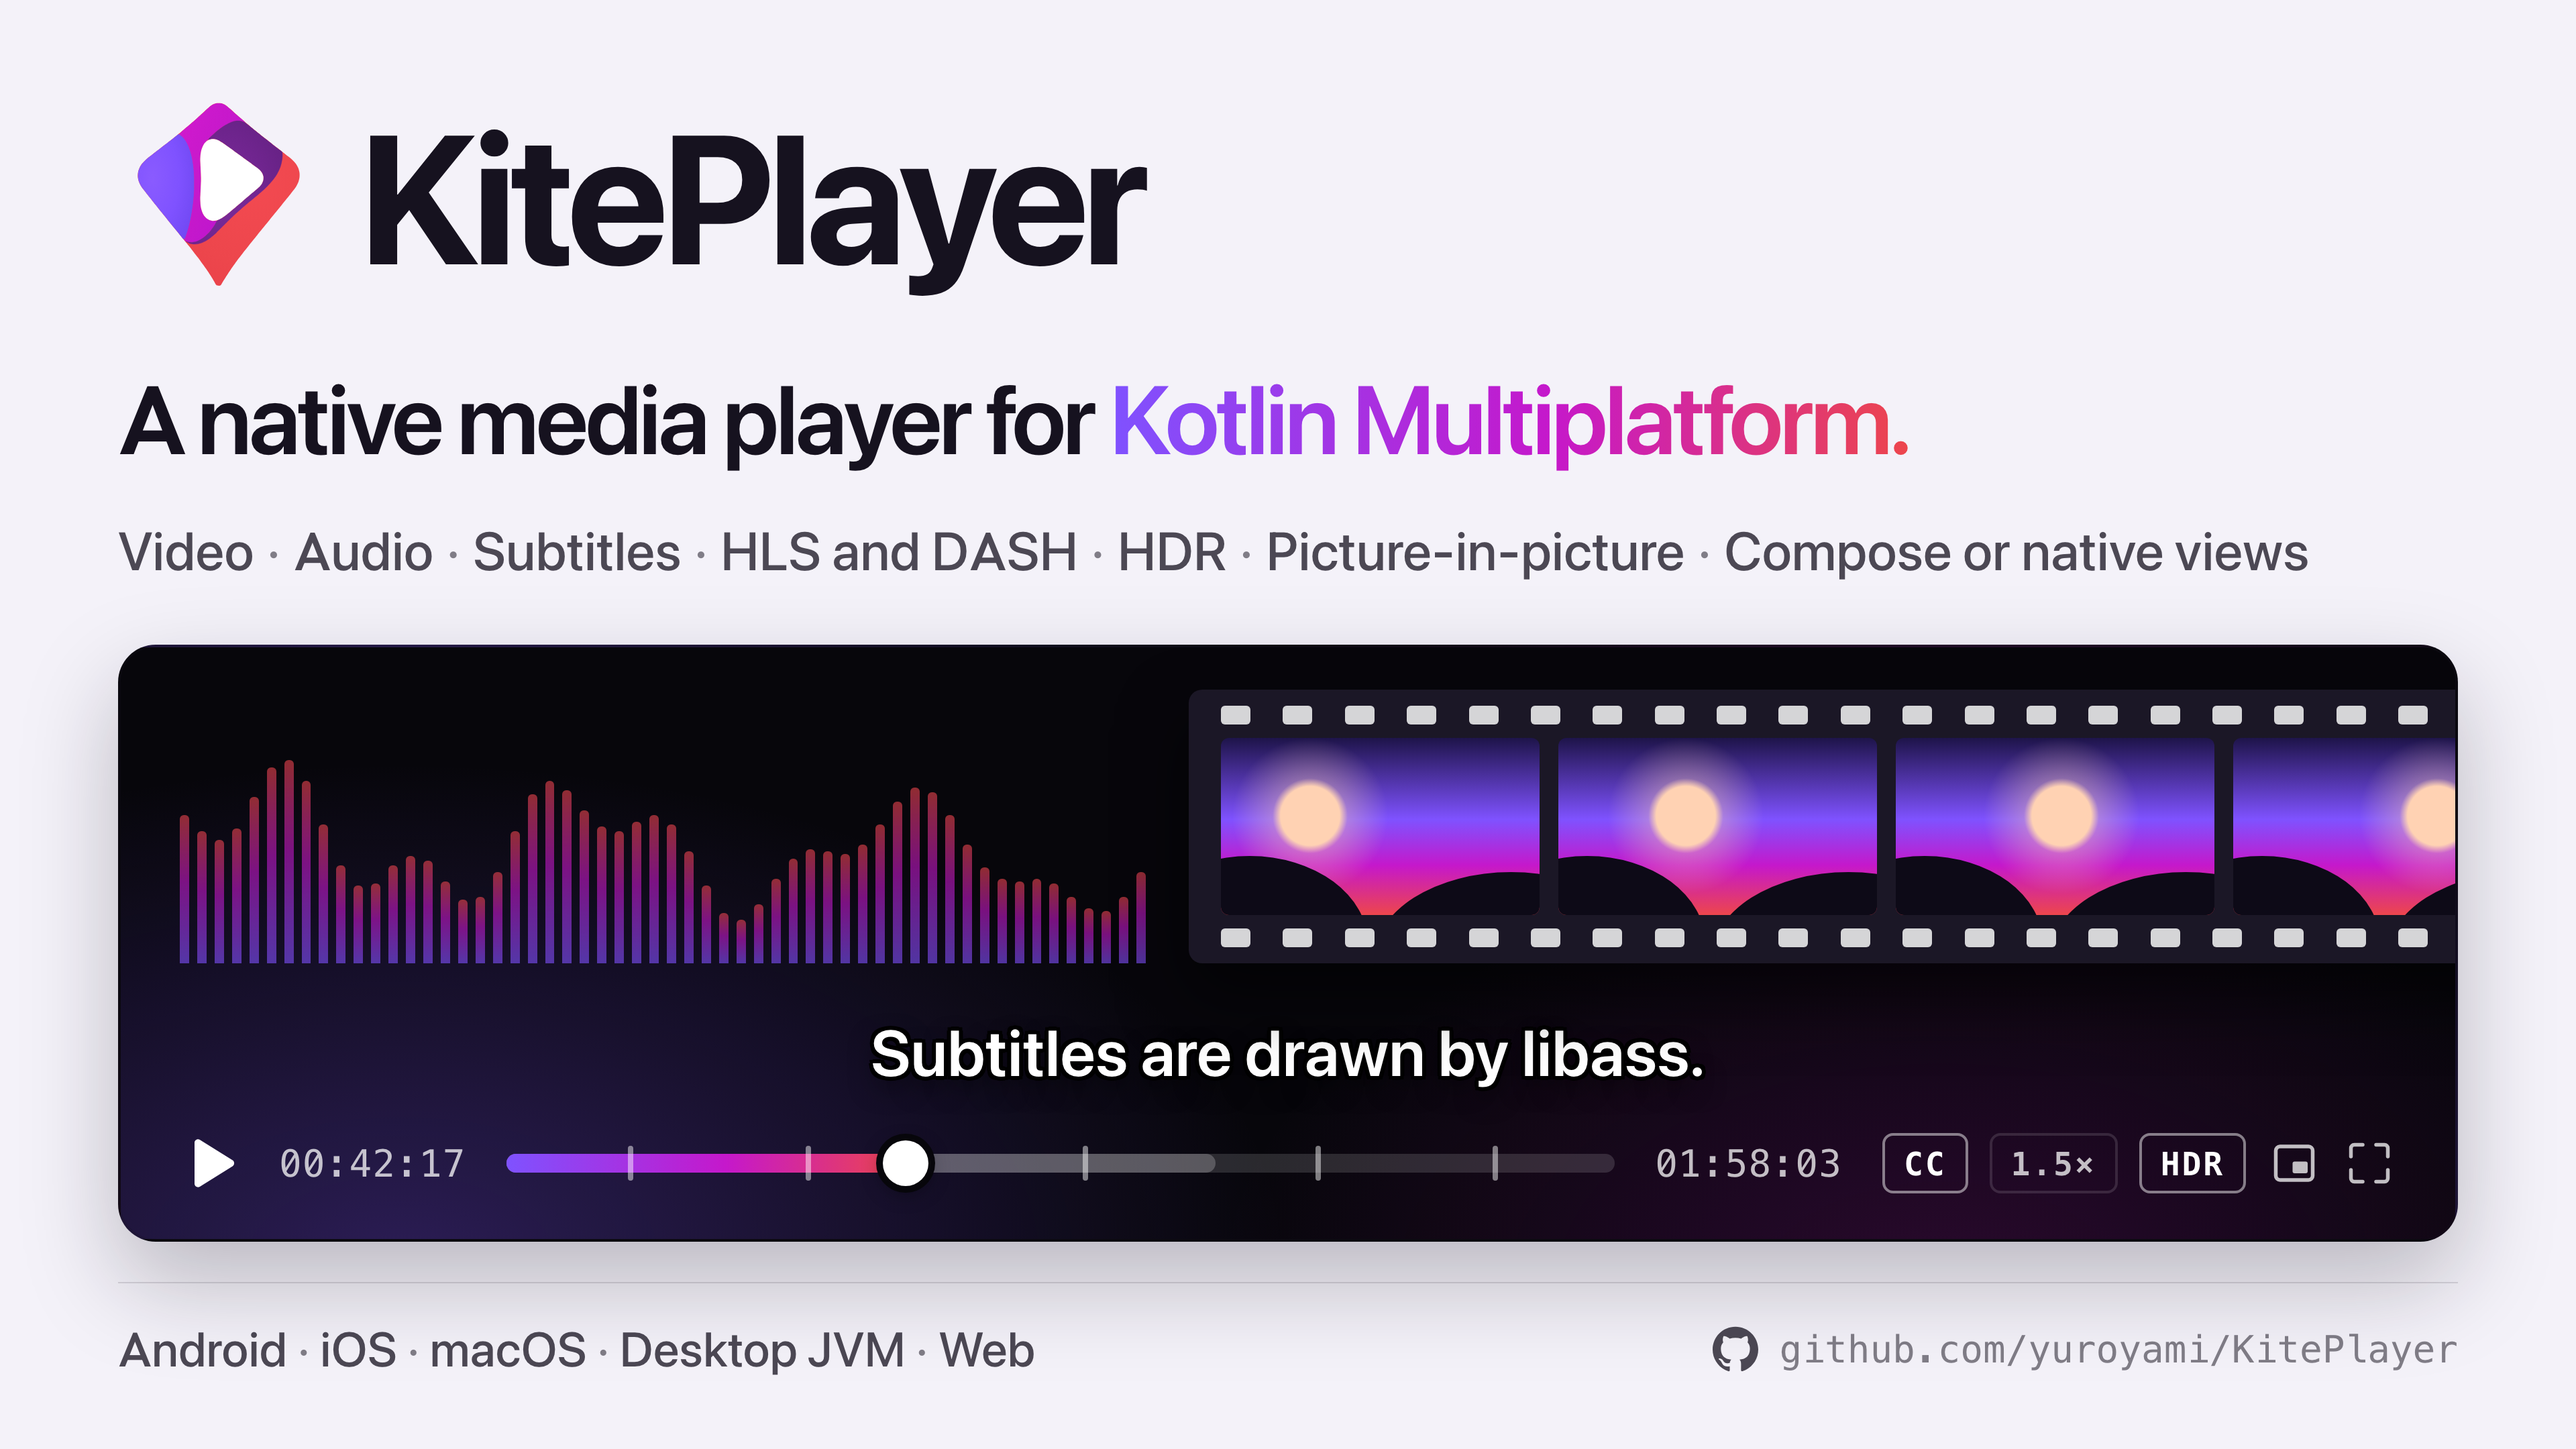
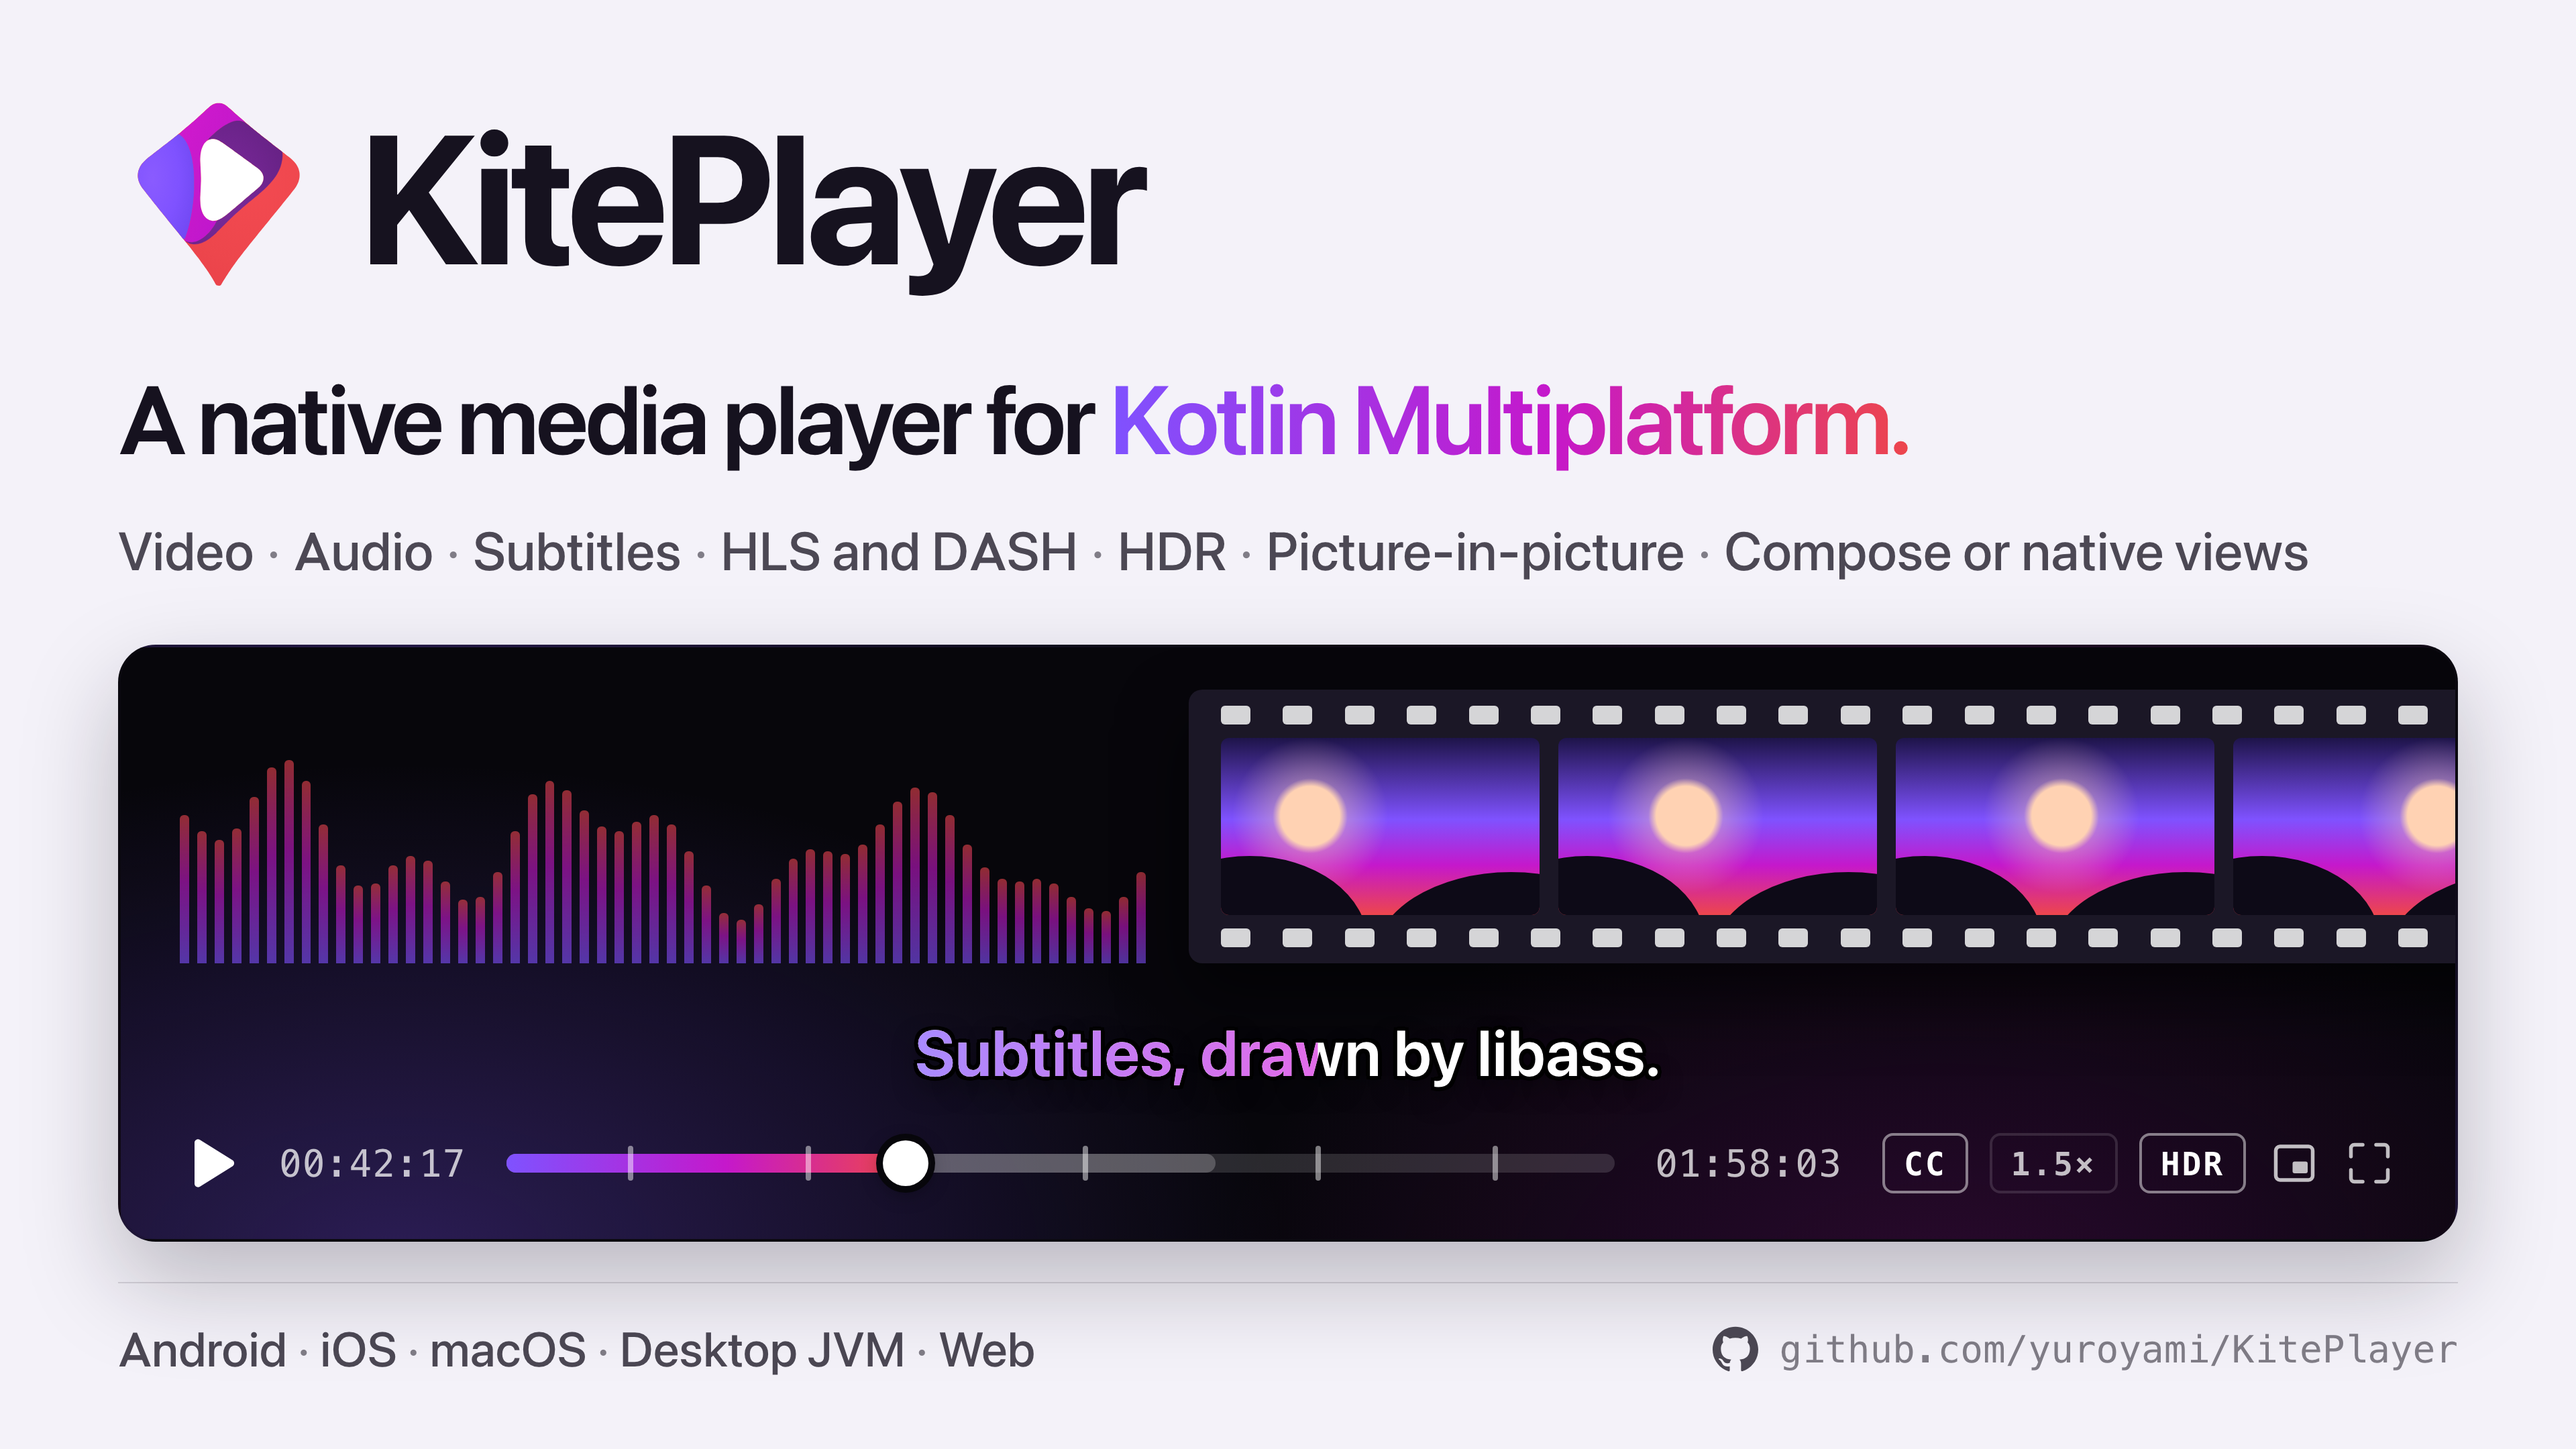
docs: show the feature graphic subtitle as a karaoke line
The subtitle in the player window now reads "Subtitles, drawn by libass."
with a karaoke sweep partway through it, the way an ASS \kf tag draws one.

Changed region(s): [[0.3125, 0.6824, 0.6562, 0.7444]]

diff --git a/art/feature-graphic/index.html b/art/feature-graphic/index.html
@@ -184,6 +184,7 @@
   /* A subtitle line, styled the way a video player draws one. */
   .subtitle { text-align: center; padding-bottom: 30px; }
   .subtitle span {
+    position: relative;
     display: inline-block;
     font-size: 48px;
     font-weight: 600;
@@ -192,6 +193,19 @@
       -2.5px -2.5px 0 #000, 2.5px -2.5px 0 #000, -2.5px 2.5px 0 #000, 2.5px 2.5px 0 #000,
       0 -3px 0 #000, 0 3px 0 #000, -3px 0 0 #000, 3px 0 0 #000,
       0 8px 18px rgba(0, 0, 0, 0.55);
+  }
+  /* A karaoke sweep, as an ASS \kf tag draws one: a filled copy of the line on top of the
+     white one, cut off where the sweep has reached, so the outline below stays visible. */
+  .subtitle span::after {
+    content: attr(data-line);
+    position: absolute;
+    inset: 0;
+    color: transparent;
+    text-shadow: none;
+    background: linear-gradient(90deg, #A98BFF 0%, #E36BE8 55%, #FF7A7F 100%);
+    -webkit-background-clip: text;
+    background-clip: text;
+    clip-path: inset(-10px 46% -10px -10px);
   }
 
   /* The control bar. */
@@ -268,7 +282,7 @@
     </div>
   </div>
 
-  <div class="subtitle"><span>Subtitles are drawn by libass.</span></div>
+  <div class="subtitle"><span data-line="Subtitles, drawn by libass.">Subtitles, drawn by libass.</span></div>
 
   <div class="bar">
     <svg class="play" viewBox="0 0 36 36" aria-hidden="true"><path d="M9 5.5v25c0 1.6 1.8 2.6 3.2 1.8l20-12.5c1.3-.8 1.3-2.8 0-3.6l-20-12.5C10.8 2.9 9 3.9 9 5.5z"/></svg>
